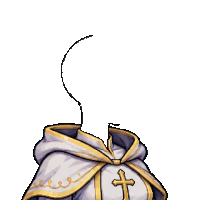
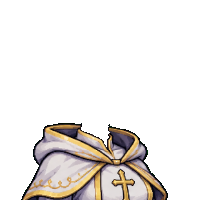
Portrait bodies: remove leftover outline of the template head from the outfit layers
Claude-Session: https://claude.ai/code/session_01M8ejkLTav7LEMdtajuWjkN

diff --git a/art_source/new_art/portraits/process_bodies.py b/art_source/new_art/portraits/process_bodies.py
@@ -84,6 +84,15 @@ def main(sex):
         body |= fg & ~head_draw | (fg & ndi.binary_dilation(body, iterations=2) & ~ndi.binary_erosion(head_draw, iterations=3) & ~(neutral & (v > 105) & (v < 226) & ndi.binary_erosion(head_draw, iterations=1)))
         lab, n = ndi.label(body); sz = ndi.sum(body, lab, range(1, n + 1))
         body = np.isin(lab, [i + 1 for i in range(n) if sz[i] > 150])
+        # leftover outline of the drawn head (a thin dark gray ring around the skull): drop dark neutral pixels near the
+        # head unless they hug the coloured outfit (those are the outfit's own outline, e.g. along the collar)
+        darkn = (c.max(2) < 130) & (np.abs(r - g) < 28) & (np.abs(g - b) < 28)
+        ring = body & darkn & ndi.binary_dilation(head_draw, iterations=10)
+        keep_near = ndi.binary_dilation(body & ~ring, iterations=4)
+        body &= ~(ring & ~keep_near)
+        lab, n = ndi.label(body); sz = ndi.sum(body, lab, range(1, n + 1))
+        dk = ndi.mean(darkn, lab, range(1, n + 1))
+        body = np.isin(lab, [i + 1 for i in range(n) if sz[i] > 150 and (dk[i] < 0.6 or sz[i] > 4000)])
         cyan = body & (b - r > 50) & (g - r > 50) & (np.abs(g - b) < 70) & (g > 60)
         # back to the 200x200 canvas: cell pixel (x, y) -> ((x - tx) / s, (y - ty) / s)
         def to_canvas(arr):
